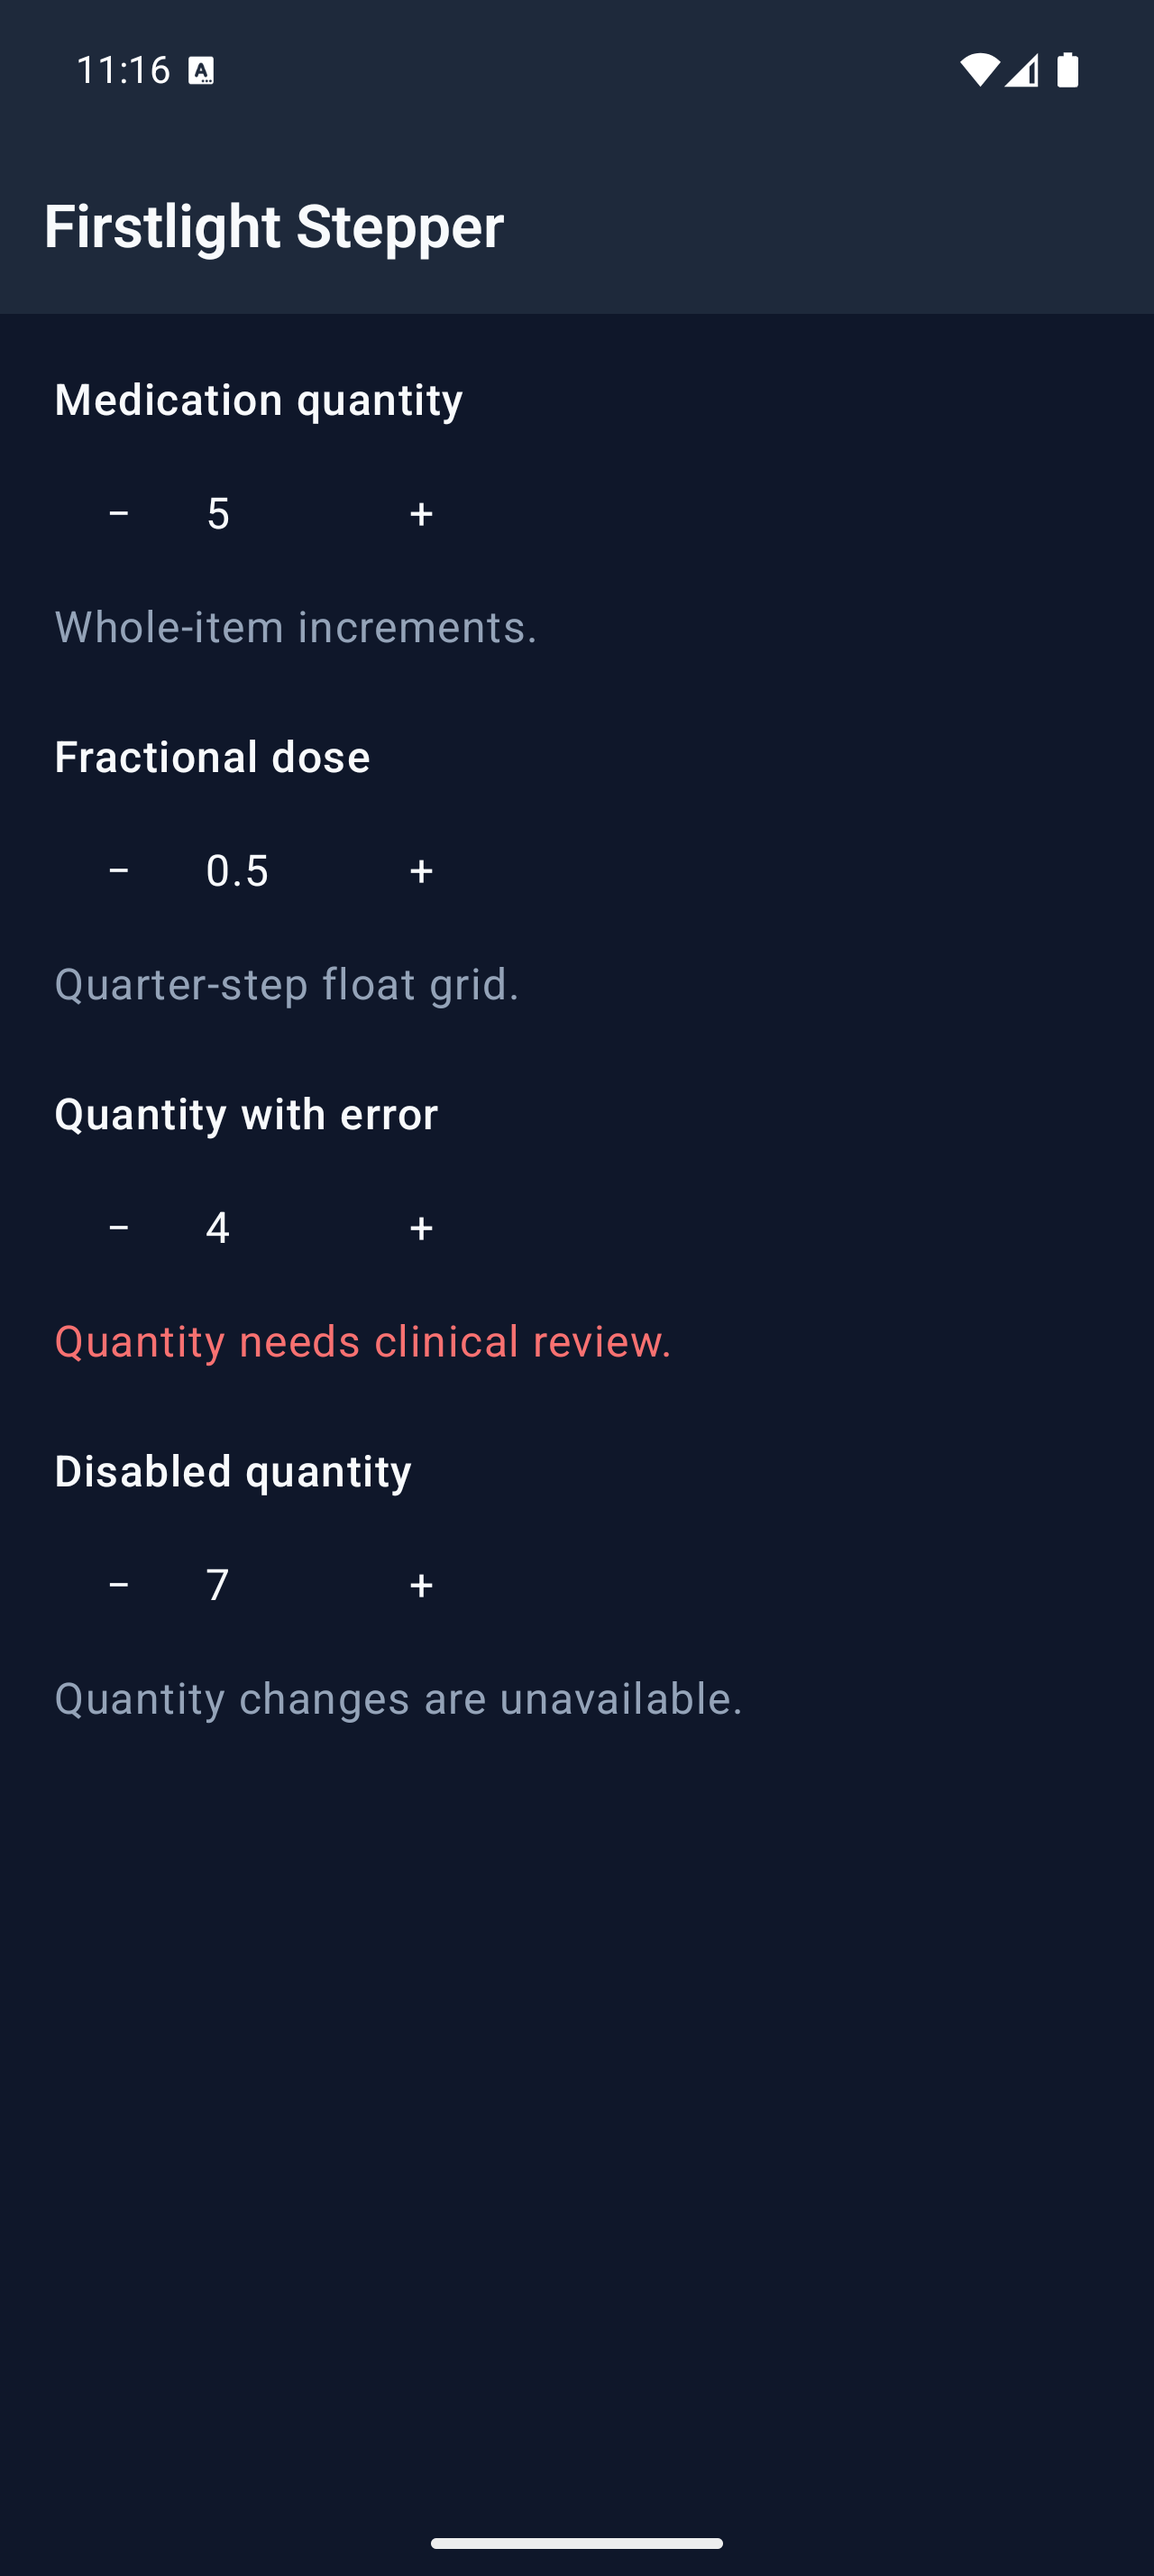
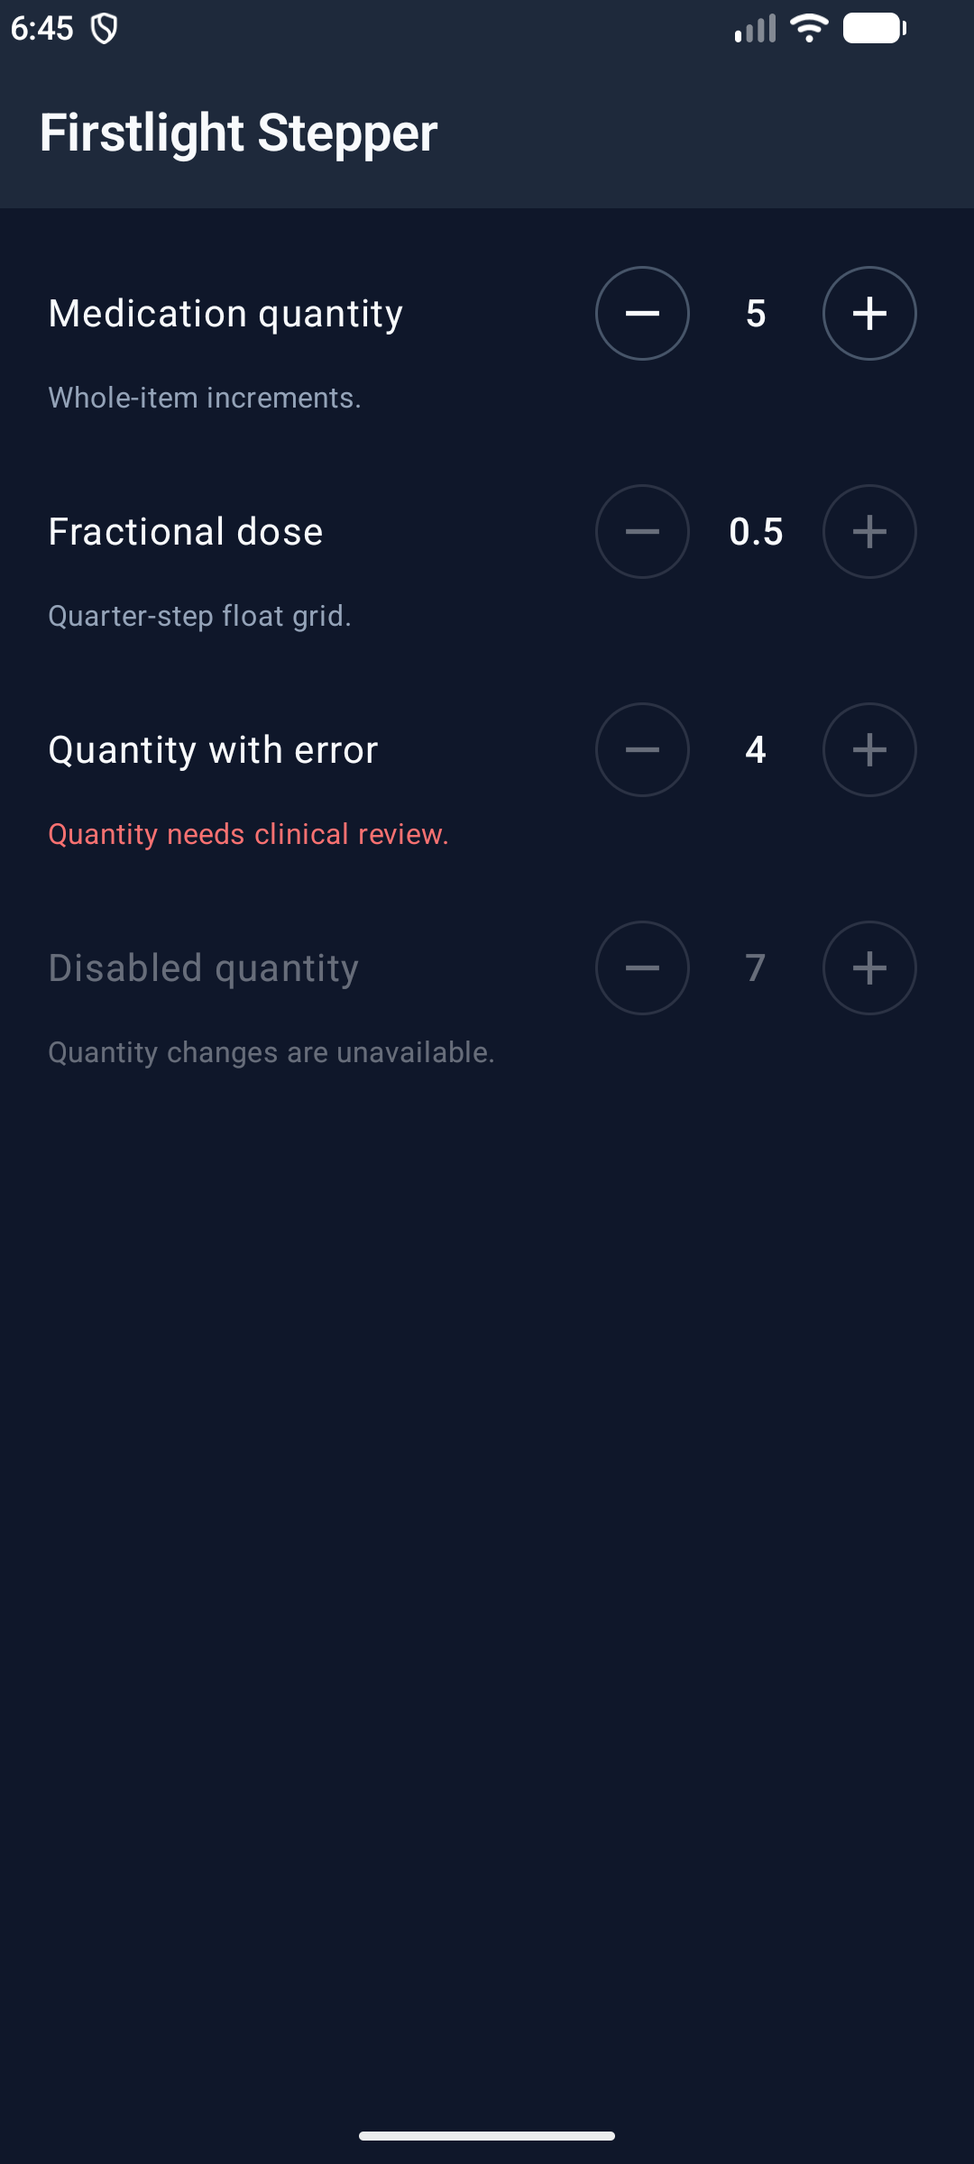
Give the Android Stepper a genuine Material 3 presentation
Decrease and increase are now OutlinedIconButtons with the Remove and Add
icons instead of bare text glyphs. The value is centred between them and the
label shares their row with the controls at the trailing end, matching the
iOS layout. Icons stay 24 dp at large font scales, the row mirrors in RTL,
and disabled steppers dim their label and helper. Semantics, bounds,
disablement, and the public API are unchanged.

Paparazzi Stepper snapshots now run unconditionally and cover light, dark,
error at minimum, disabled, RTL, and font scale 2. A Compose semantics test
checks named Button roles, bound disablement, clicks, and RTL ordering.

Amp-Thread-ID: https://ampcode.com/threads/T-01a16cd2-bd05-7269-a881-1da4d987ab51

diff --git a/resources/android/StepperControl.kt b/resources/android/StepperControl.kt
@@ -1,25 +1,32 @@
 package dev.firstlightui.plugins.firstlight_ui.ui
 
+import androidx.compose.foundation.BorderStroke
 import androidx.compose.foundation.layout.Arrangement
 import androidx.compose.foundation.layout.Column
 import androidx.compose.foundation.layout.Row
 import androidx.compose.foundation.layout.Spacer
 import androidx.compose.foundation.layout.defaultMinSize
 import androidx.compose.foundation.layout.fillMaxWidth
-import androidx.compose.foundation.layout.width
-import androidx.compose.material3.IconButton
+import androidx.compose.foundation.layout.widthIn
+import androidx.compose.material3.IconButtonDefaults
+import androidx.compose.material3.MaterialTheme
+import androidx.compose.material3.OutlinedIconButton
 import androidx.compose.material3.Text
 import androidx.compose.runtime.Composable
+import androidx.compose.runtime.CompositionLocalProvider
 import androidx.compose.ui.Alignment
 import androidx.compose.ui.Modifier
-import androidx.compose.ui.semantics.contentDescription
+import androidx.compose.ui.platform.LocalDensity
 import androidx.compose.ui.semantics.clearAndSetSemantics
+import androidx.compose.ui.semantics.contentDescription
 import androidx.compose.ui.semantics.disabled
 import androidx.compose.ui.semantics.error
 import androidx.compose.ui.semantics.semantics
 import androidx.compose.ui.semantics.stateDescription
-import androidx.compose.ui.text.font.FontWeight
+import androidx.compose.ui.text.style.TextAlign
+import androidx.compose.ui.unit.Density
 import androidx.compose.ui.unit.dp
+import com.nativephp.mobile.ui.MaterialIcon
 import com.nativephp.plugins.native_ui.NativeUITokens
 
 @Composable
@@ -38,17 +45,9 @@ internal fun FirstlightStepperControl(
         supporting.takeIf { configuration.error.isEmpty() }.orEmpty(),
         "Error: ${configuration.error}".takeIf { configuration.error.isNotEmpty() }.orEmpty(),
     ).filter(String::isNotEmpty).joinToString(". ")
+    val fieldColor = if (configuration.disabled) tokens.onSurface.copy(alpha = 0.38f) else tokens.onSurface
 
-    Column(modifier = modifier.fillMaxWidth(), verticalArrangement = Arrangement.spacedBy(6.dp)) {
-        if (configuration.label.isNotEmpty()) {
-            Text(
-                text = configuration.label,
-                color = tokens.onSurface,
-                fontWeight = FontWeight.Medium,
-                modifier = Modifier.clearAndSetSemantics {},
-            )
-        }
-
+    Column(modifier = modifier.fillMaxWidth(), verticalArrangement = Arrangement.spacedBy(4.dp)) {
         Row(
             modifier = Modifier
                 .fillMaxWidth()
@@ -59,43 +58,82 @@ internal fun FirstlightStepperControl(
                     if (configuration.disabled || state.isAwaitingPublication) disabled()
                     if (configuration.error.isNotEmpty()) error(configuration.error)
                 },
+            horizontalArrangement = Arrangement.spacedBy(8.dp),
             verticalAlignment = Alignment.CenterVertically,
         ) {
-            IconButton(
-                onClick = onDecrement,
-                modifier = Modifier.semantics {
-                    contentDescription = "Decrease ${configuration.accessibilityLabel}"
-                },
-                enabled = configuration.canPressDecrement && !state.isAwaitingPublication,
-            ) {
-                Text(text = "−", color = tokens.onSurface)
+            if (configuration.label.isNotEmpty()) {
+                Text(
+                    text = configuration.label,
+                    color = fieldColor,
+                    style = MaterialTheme.typography.bodyLarge,
+                    modifier = Modifier
+                        .weight(1f)
+                        .clearAndSetSemantics {},
+                )
+            } else {
+                Spacer(Modifier.weight(1f))
             }
 
-            Spacer(Modifier.width(8.dp))
+            StepperButton(
+                icon = "remove",
+                actionLabel = "Decrease ${configuration.accessibilityLabel}",
+                enabled = configuration.canPressDecrement && !state.isAwaitingPublication,
+                tokens = tokens,
+                onClick = onDecrement,
+            )
             Text(
                 text = configuration.displayValue,
-                color = tokens.onSurface,
-                modifier = Modifier.defaultMinSize(minWidth = 48.dp),
+                color = fieldColor,
+                style = MaterialTheme.typography.titleMedium,
+                textAlign = TextAlign.Center,
+                modifier = Modifier.widthIn(min = 32.dp),
             )
-            Spacer(Modifier.width(8.dp))
-
-            IconButton(
-                onClick = onIncrement,
-                modifier = Modifier.semantics {
-                    contentDescription = "Increase ${configuration.accessibilityLabel}"
-                },
+            StepperButton(
+                icon = "add",
+                actionLabel = "Increase ${configuration.accessibilityLabel}",
                 enabled = configuration.canPressIncrement && !state.isAwaitingPublication,
-            ) {
-                Text(text = "+", color = tokens.onSurface)
-            }
+                tokens = tokens,
+                onClick = onIncrement,
+            )
         }
 
         if (supporting.isNotEmpty()) {
             Text(
                 text = supporting,
-                color = if (configuration.error.isEmpty()) tokens.onSurfaceVariant else tokens.destructive,
+                color = when {
+                    configuration.error.isNotEmpty() -> tokens.destructive
+                    configuration.disabled -> fieldColor
+                    else -> tokens.onSurfaceVariant
+                },
+                style = MaterialTheme.typography.bodySmall,
                 modifier = Modifier.clearAndSetSemantics {},
             )
+        }
+    }
+}
+
+@Composable
+private fun StepperButton(
+    icon: String,
+    actionLabel: String,
+    enabled: Boolean,
+    tokens: NativeUITokens,
+    onClick: () -> Unit,
+) {
+    OutlinedIconButton(
+        onClick = onClick,
+        enabled = enabled,
+        modifier = Modifier.semantics { contentDescription = actionLabel },
+        colors = IconButtonDefaults.outlinedIconButtonColors(
+            contentColor = tokens.onSurface,
+            disabledContentColor = tokens.onSurface.copy(alpha = 0.38f),
+        ),
+        border = BorderStroke(1.dp, if (enabled) tokens.outline else tokens.onSurface.copy(alpha = 0.12f)),
+    ) {
+        // Material icons keep their 24 dp size at every font scale; only text grows.
+        val density = LocalDensity.current
+        CompositionLocalProvider(LocalDensity provides Density(density.density, 1f)) {
+            MaterialIcon(name = icon, contentDescription = null)
         }
     }
 }

diff --git a/tests/android/src/test/kotlin/dev/firstlightui/plugins/firstlight_ui/ui/StepperTest.kt b/tests/android/src/test/kotlin/dev/firstlightui/plugins/firstlight_ui/ui/StepperTest.kt
@@ -6,6 +6,20 @@ import androidx.compose.material3.MaterialTheme
 import androidx.compose.material3.Surface
 import androidx.compose.material3.darkColorScheme
 import androidx.compose.material3.lightColorScheme
+import androidx.compose.runtime.CompositionLocalProvider
+import androidx.compose.ui.platform.LocalLayoutDirection
+import androidx.compose.ui.semantics.Role
+import androidx.compose.ui.semantics.SemanticsProperties
+import androidx.compose.ui.test.ExperimentalTestApi
+import androidx.compose.ui.test.SemanticsMatcher
+import androidx.compose.ui.test.assert
+import androidx.compose.ui.test.assertIsEnabled
+import androidx.compose.ui.test.assertIsNotEnabled
+import androidx.compose.ui.test.getUnclippedBoundsInRoot
+import androidx.compose.ui.test.onNodeWithContentDescription
+import androidx.compose.ui.test.performClick
+import androidx.compose.ui.test.runComposeUiTest
+import androidx.compose.ui.unit.LayoutDirection
 import androidx.compose.ui.Modifier
 import androidx.compose.ui.unit.dp
 import app.cash.paparazzi.DeviceConfig
@@ -19,9 +33,10 @@ import org.junit.Assert.assertFalse
 import org.junit.Assert.assertNotNull
 import org.junit.Assert.assertNull
 import org.junit.Assert.assertTrue
-import org.junit.Assume.assumeTrue
 import org.junit.Rule
 import org.junit.Test
+import org.junit.runner.RunWith
+import org.robolectric.RobolectricTestRunner
 
 class StepperRendererContractTest {
     @Test fun `configuration decodes accepted display and metadata`() {
@@ -93,37 +108,84 @@ class StepperRendererContractTest {
     }
 }
 
+@OptIn(ExperimentalTestApi::class)
+@RunWith(RobolectricTestRunner::class)
+class StepperControlSemanticsTest {
+    @Test fun `direction actions are named buttons that follow bounds and layout direction`() {
+        for (direction in listOf(LayoutDirection.Ltr, LayoutDirection.Rtl)) {
+            runComposeUiTest {
+                var increments = 0
+                setContent {
+                    CompositionLocalProvider(LocalLayoutDirection provides direction) {
+                        MaterialTheme {
+                            FirstlightStepperControl(
+                                state = StepperRendererState(stepperNode(canDecrement = false)),
+                                tokens = NativeUITheme.light,
+                                onDecrement = {},
+                                onIncrement = { increments++ },
+                            )
+                        }
+                    }
+                }
+
+                val decrease = onNodeWithContentDescription("Decrease Medication quantity")
+                    .assert(SemanticsMatcher.expectValue(SemanticsProperties.Role, Role.Button))
+                    .assertIsNotEnabled()
+                val increase = onNodeWithContentDescription("Increase Medication quantity")
+                    .assert(SemanticsMatcher.expectValue(SemanticsProperties.Role, Role.Button))
+                    .assertIsEnabled()
+                increase.performClick()
+                assertEquals(1, increments)
+
+                val decreaseLeft = decrease.getUnclippedBoundsInRoot().left
+                val increaseLeft = increase.getUnclippedBoundsInRoot().left
+                assertEquals(direction == LayoutDirection.Ltr, decreaseLeft < increaseLeft)
+                onNode(SemanticsMatcher.expectValue(SemanticsProperties.StateDescription, "5")).assertExists()
+            }
+        }
+    }
+}
+
 class StepperControlScreenshotTest {
     @get:Rule val paparazzi = Paparazzi(deviceConfig = DeviceConfig.PIXEL_5)
 
-    @Test fun `light dark error and disabled evidence is controller gated`() {
-        assumeTrue(System.getenv("FIRSTLIGHT_VERIFY_STEPPER_SNAPSHOTS") == "1")
-        snapshot(dark = false)
-        snapshot(dark = true)
-        snapshot(dark = false, error = "Quantity is unavailable")
-        snapshot(dark = false, disabled = true)
+    @Test fun light() = paparazzi.snapshot { stepperScreenshotContent(dark = false) }
+
+    @Test fun dark() = paparazzi.snapshot { stepperScreenshotContent(dark = true) }
+
+    @Test fun errorAtMinimum() = paparazzi.snapshot {
+        stepperScreenshotContent(dark = false, error = "Quantity is unavailable", canDecrement = false)
     }
 
-    private fun snapshot(dark: Boolean, error: String = "", disabled: Boolean = false) {
-        paparazzi.snapshot { stepperScreenshotContent(dark, error, disabled) }
+    @Test fun disabled() = paparazzi.snapshot { stepperScreenshotContent(dark = true, disabled = true) }
+
+    @Test fun rtl() = paparazzi.snapshot {
+        CompositionLocalProvider(LocalLayoutDirection provides LayoutDirection.Rtl) {
+            stepperScreenshotContent(dark = false)
+        }
     }
 }
 
 class StepperControlLargeTextScreenshotTest {
     @get:Rule val paparazzi = Paparazzi(deviceConfig = DeviceConfig.PIXEL_5.copy(fontScale = 2f))
 
-    @Test fun `large text evidence is controller gated`() {
-        assumeTrue(System.getenv("FIRSTLIGHT_VERIFY_STEPPER_SNAPSHOTS") == "1")
-        paparazzi.snapshot { stepperScreenshotContent(dark = false) }
-    }
+    @Test fun fontScaleTwo() = paparazzi.snapshot { stepperScreenshotContent(dark = false, displayValue = "1,250") }
 }
 
 @androidx.compose.runtime.Composable
-private fun stepperScreenshotContent(dark: Boolean, error: String = "", disabled: Boolean = false) {
+private fun stepperScreenshotContent(
+    dark: Boolean,
+    error: String = "",
+    disabled: Boolean = false,
+    canDecrement: Boolean = true,
+    displayValue: String = "5",
+) {
     MaterialTheme(colorScheme = if (dark) darkColorScheme() else lightColorScheme()) {
-        Surface(modifier = Modifier.fillMaxSize()) {
+        Surface(modifier = Modifier.fillMaxSize(), color = if (dark) NativeUITheme.dark.background else NativeUITheme.light.background) {
             FirstlightStepperControl(
-                state = StepperRendererState(stepperNode(disabled = disabled, error = error)),
+                state = StepperRendererState(
+                    stepperNode(displayValue = displayValue, disabled = disabled, error = error, canDecrement = canDecrement),
+                ),
                 tokens = if (dark) NativeUITheme.dark else NativeUITheme.light,
                 onDecrement = {},
                 onIncrement = {},

diff --git a/spec/components/stepper.md b/spec/components/stepper.md
@@ -106,10 +106,14 @@ a timeout, client arithmetic, or a second callback.
 ## Platform expression and accessibility
 
 iOS uses SwiftUI `Stepper(label:onIncrement:onDecrement:)` with platform
-increment and decrement affordances. Android uses a Material 3 row of 48 dp
-icon buttons around the accepted value because Material supplies no Stepper
-primitive. The internal minus and plus affordances are semantic and are not
-publicly replaceable.
+increment and decrement affordances. Android places the label and controls on
+one row, as iOS does: the label leads, and Material 3 `OutlinedIconButton`
+Remove and Add actions sit at the trailing end around the centred accepted
+value, because Material supplies no Stepper primitive. Each action is a
+semantic Button with a 48 dp target; its 24 dp icon does not grow with font
+scale, while the label and value do. The row mirrors in right-to-left layouts.
+Helper or error text sits below the row. The internal minus and plus
+affordances are semantic and are not publicly replaceable.
 
 The control exposes its visible or explicit label, accepted display value,
 hint, helper/error, disabled state, and the individual decrease/increase action
@@ -121,7 +125,7 @@ direction; component disablement and a pending proposal disable both.
 This is a paired-renderer component. The installed `nativephp/mobile-ui`
 package has no Stepper element or native renderer to adapt. SwiftUI provides a
 genuine Stepper with custom increment/decrement closures; Material 3 provides
-documented `IconButton(enabled:)` primitives but no Stepper. Firstlight uses
+documented `OutlinedIconButton(enabled:)` primitives but no Stepper. Firstlight uses
 those official platform seams and NativePHP's ordinary Element Tree, callback
 registry, press transport, and current-tree publication.
 

diff --git a/CHANGELOG.md b/CHANGELOG.md
@@ -10,6 +10,7 @@ All notable changes to this project will be documented in this file.
 
 ### Fixed
 
+- Android Stepper: the decrease and increase actions are now Material 3 outlined icon buttons with Remove and Add icons, instead of bare `−` and `+` text with no container. The value is centred between them, and the label shares their row with the controls at the trailing end, as on iOS. The row mirrors in right-to-left layouts, icons stay 24 dp at large font scales, and a disabled Stepper dims its label and helper. The public API, accessibility semantics, and min/max/disabled behaviour are unchanged.
 - iOS XCTest: rendered-accessibility tests for List Item context-menu actions and Switch semantics now enable system accessibility themselves, so they no longer see an empty accessibility tree on simulators where accessibility was never switched on. The Feedback Center hit-target snapshot pins dark appearance. Assertions and reference images are unchanged.
 
 ### Known limitations

diff --git a/docs/components/stepper.md b/docs/components/stepper.md
@@ -102,8 +102,9 @@ receive the accepted value, hint, helper or error, disabled state, and named
 decrease/increase actions. At a boundary, only the unavailable direction is
 disabled.
 
-iOS uses the genuine SwiftUI Stepper. Android uses Material 3 icon buttons in
-the idiomatic minus/value/plus arrangement. Stepper deliberately has no custom
+iOS uses the genuine SwiftUI Stepper. Android uses Material 3 outlined icon
+buttons with the label on the same row and the minus/value/plus controls at its
+trailing end. Stepper deliberately has no custom
 icons, formatter, min/max captions, wraparound, orientation, long-press
 acceleration, required state, size, variant, colour, or style escape props.
 
